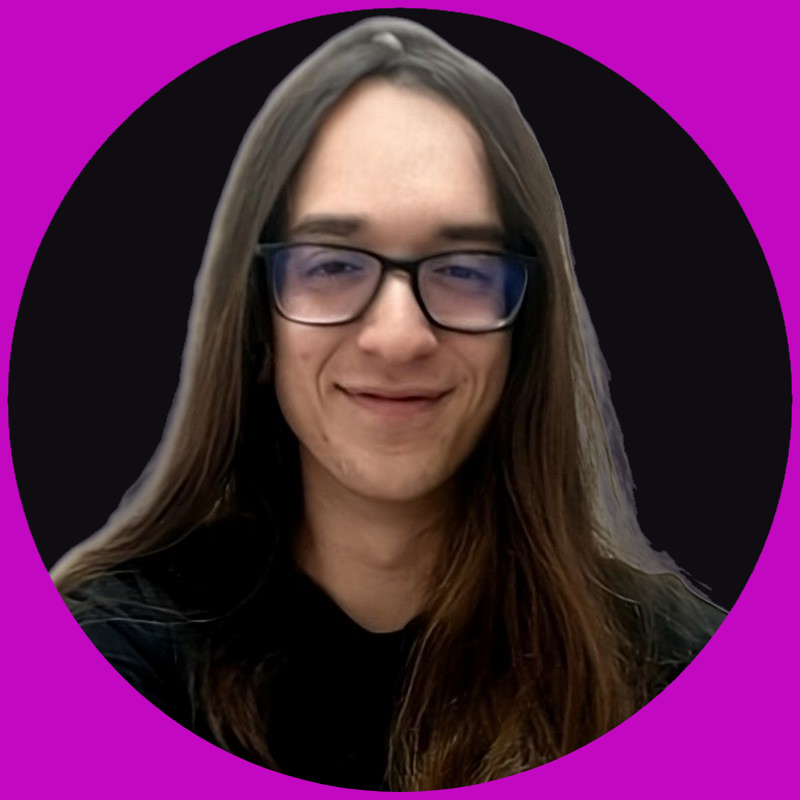
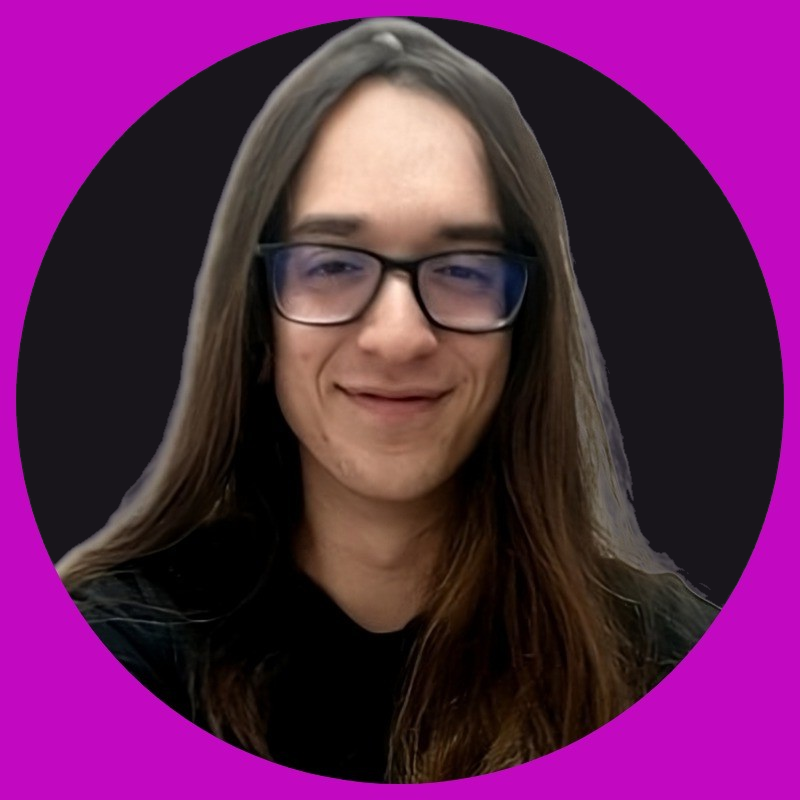
Fixes on main colors

diff --git a/projectstyle.css b/projectstyle.css
@@ -3,7 +3,7 @@ section {
     background-image: url('Images/always-grey.png');
     background-repeat: repeat;
     background-size: 45px;
-    background-color: #170028;
+    background-color: #171319;
     padding: 25px;
     display: flex;
     flex-wrap: wrap;
@@ -85,7 +85,7 @@ body {
 
     /* Project Section Styles */
     section {
-        background-color: #170028;
+        background-color: #171319;
         padding: 205px;
         display: flex;
         flex-wrap: wrap;
@@ -99,7 +99,7 @@ body {
 
     /* Project Section Styles */
     section {
-        background-color: #170028;
+        background-color: #171319;
         padding: 395px;
         display: flex;
         flex-wrap: wrap;
@@ -125,7 +125,7 @@ body {
         width: calc(45% - 1px);
     }
     section {
-        background-color: #170028;
+        background-color: #171319;
         padding: 40px;
         display: flex;
         flex-wrap: wrap;
